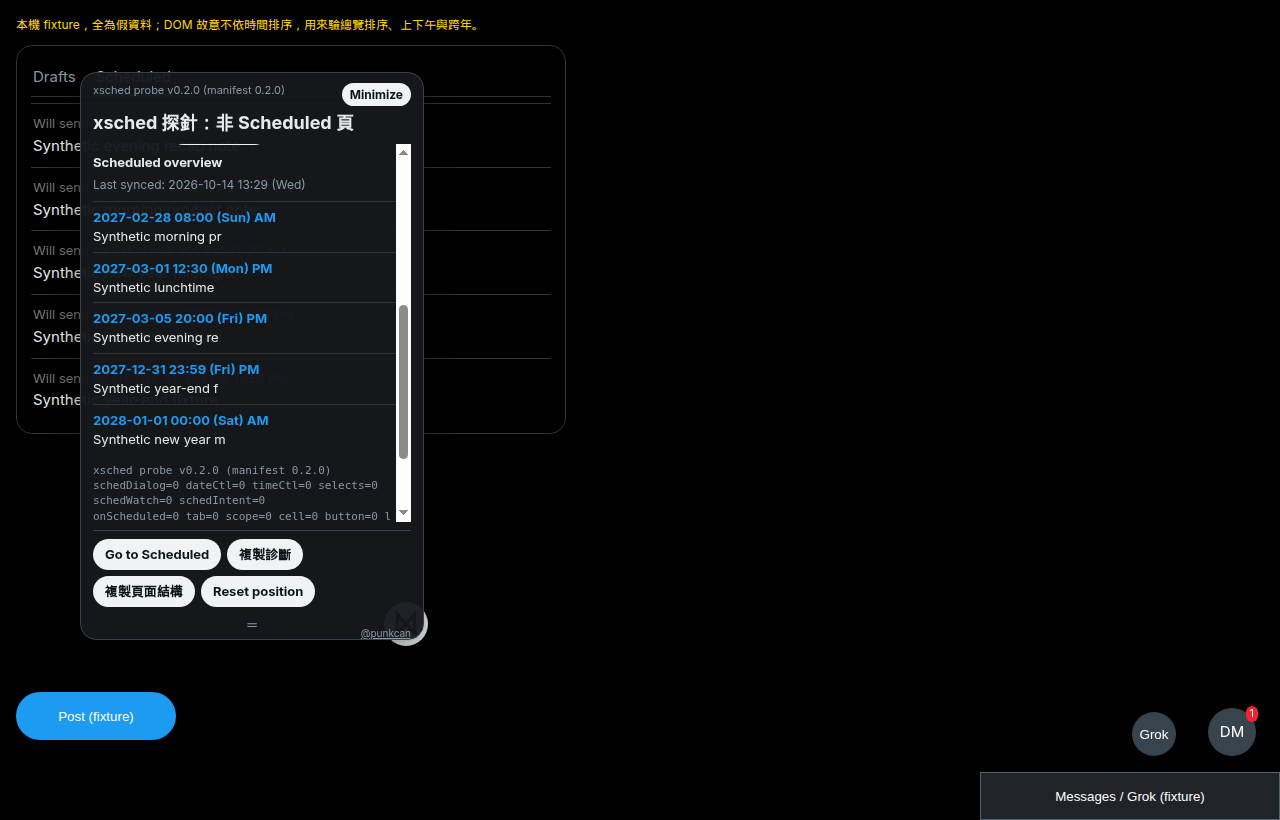
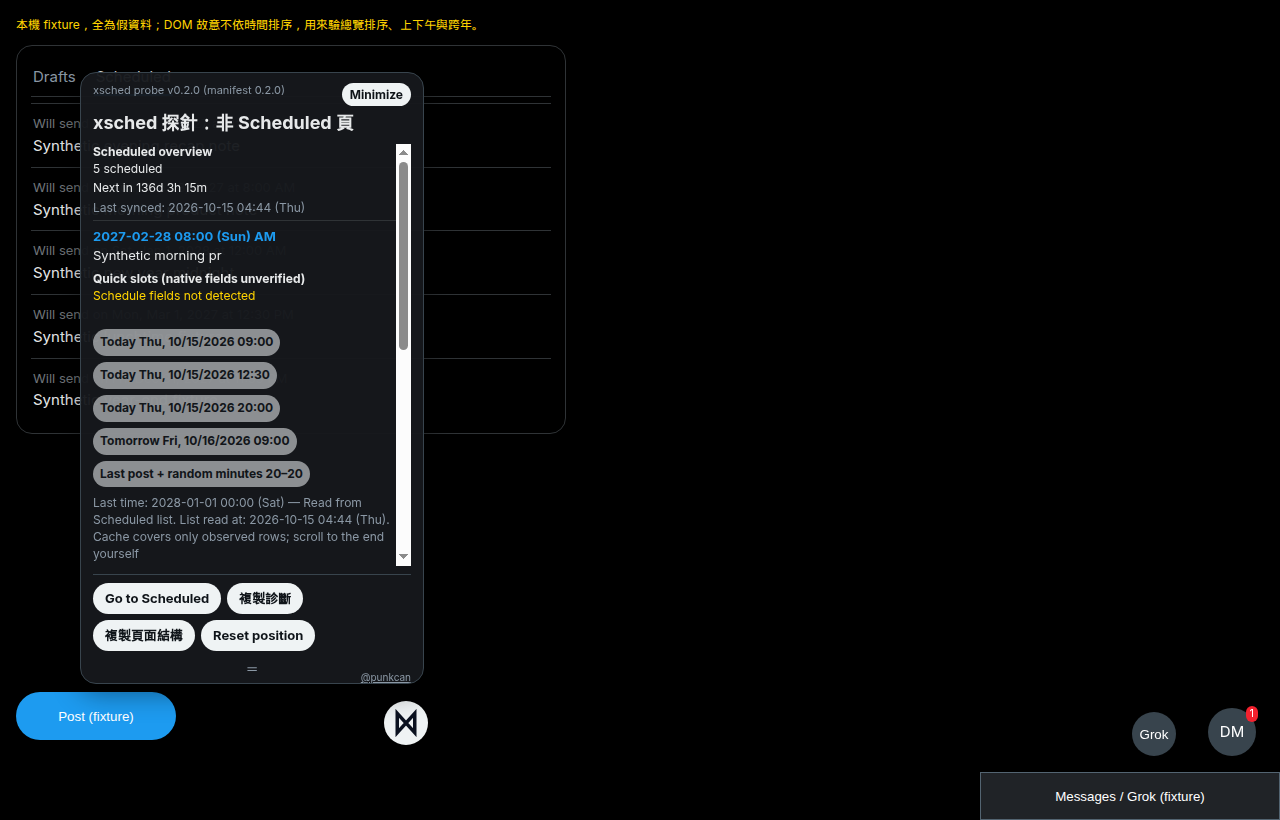
docs(0.2.0): unscrolled first-screen overview samples
Replace the scrolled overview screenshots with the actual first screen
(summary plus full quick area) and add incomplete/confirmed-empty cases.

Changed region(s): [[0.0625, 0.1829, 0.3438, 0.9146], [0.3125, 0.2134, 0.3438, 0.3659], [0.3125, 0.4268, 0.3438, 0.5488]]

diff --git a/notes/HANDOFF-v1.0-overview.md b/notes/HANDOFF-v1.0-overview.md
@@ -73,3 +73,5 @@
 
 - 1280×820：總覽摘要 33px、快速區 337px、面板 592（高於 2/3=546）
 - 1280×600：總覽摘要 33px、快速區 337px、正文可見 378、面板 568（視窗上限）
+
+本輪完整驗證：`npm test` 263/263；`node scripts/verify.mjs` OK（自測數量不減）；`CHROME_PATH=/tmp/cft/chrome/linux-155.0.8059.39/chrome-linux64/chrome` + `env -u DISPLAY` e2e **1583 斷言**全綠（含 014 首屏完整快速區與 020 未捲動總覽）。無關 `docs/v1.0-quick014-*` 已還原；總覽截圖改為未捲動第一屏。
